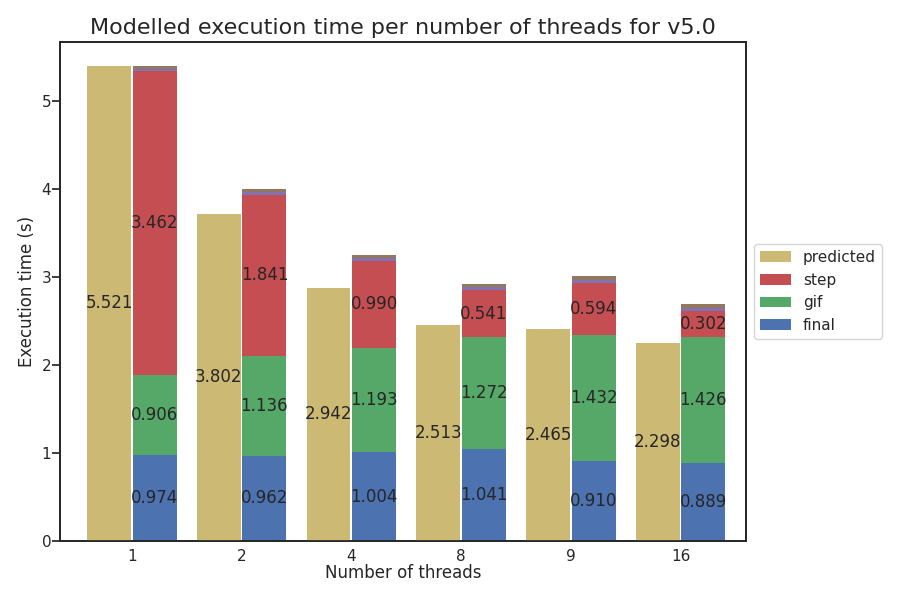
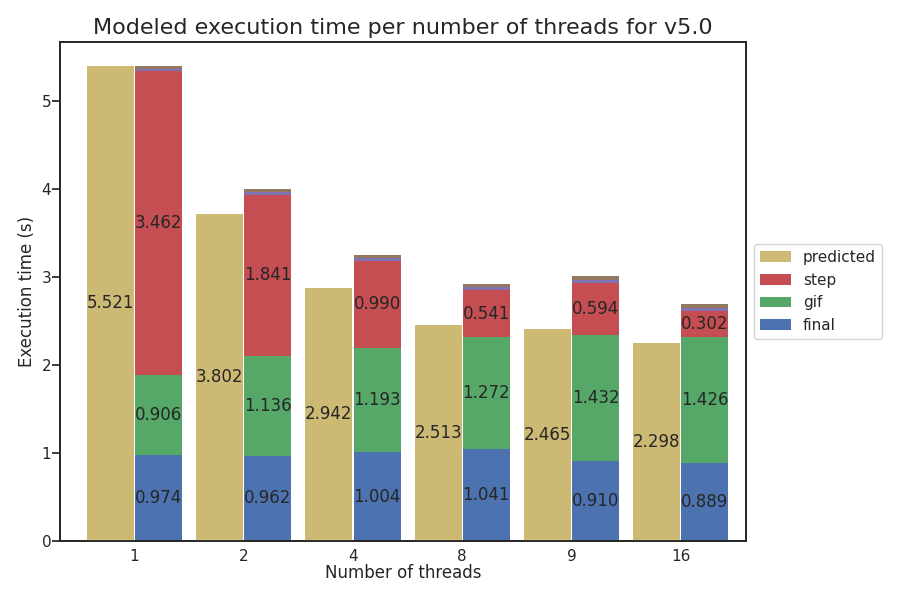
More figure cleanup

diff --git a/profiler/generate_model_scaling.py b/profiler/generate_model_scaling.py
@@ -92,13 +92,13 @@ def gen_scaling_plot():
                                               values="value")
 
     # Plot means.
-    width = 0.4
+    width = 0.43
     sns.set(style="white")
     ax = df_mean[cols[2:]].plot(kind="bar", stacked=True, figsize=(9, 6), rot=0,
                                 # yerr=df_std[["step", "gif", "final"]]
-                                linewidth=0, position=-0.02, width=width, legend=False)
+                                linewidth=0, position=-0.012, width=width, legend=False)
     ax2 = ax.twinx()
-    df_model.plot(kind="bar", ax=ax2, rot=0, position=1.02, linewidth=0,
+    df_model.plot(kind="bar", ax=ax2, rot=0, position=1.012, linewidth=0,
                   width=width, color="y", legend=False)
 
     # Color hatches properly.
@@ -126,7 +126,7 @@ def gen_scaling_plot():
         ax.patches[stepIdx].set_facecolor(ax.patches[ovlpIdx].get_facecolor())
 
     # Add info to plot.
-    plt.title(f"Modelled execution time per number of threads for {results_folder[8:12]}",
+    plt.title(f"Modeled execution time per number of threads for {results_folder[8:12]}",
               fontsize=16)
     ax.set_xlabel("Number of threads", labelpad=0)
     ax.set_ylabel("Execution time (s)")
@@ -146,7 +146,6 @@ def gen_scaling_plot():
     ax2.tick_params(left=False, labelleft=False, top=False, labeltop=False,
                    right=False, labelright=False, bottom=False, labelbottom=False)
 
-    # ax.legend(handles[::-1], labels[::-1], loc="upper right")
     ax.legend(handles[::-1], labels[::-1], loc="center left", bbox_to_anchor=(1, 0.5))
     ax.set_xbound(upper=5.6)
     plt.tight_layout()
